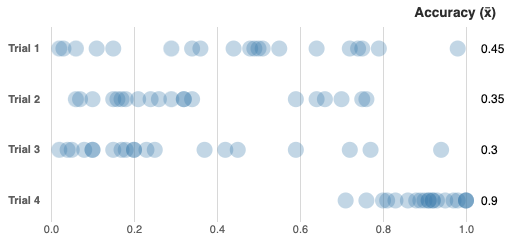
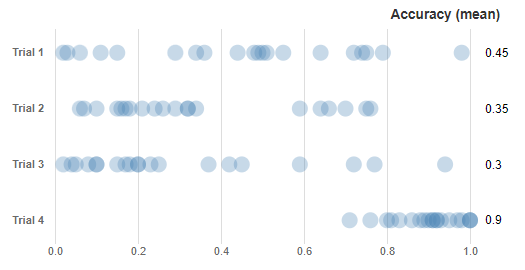
updating rubric

diff --git a/p0/assignment.md b/p0/assignment.md
@@ -2,7 +2,7 @@
 
 *Due on Jan 27, 11:59pm.*
 
-*Remember to submit your README.md file to Canvas before the due date*
+*Remember to submit a zip file of your repo to Gradescope before the due date*
 
 This programming assignment assumes that you have fulfilled all course prerequisites and followed along with the D3 tutorials.
 
@@ -10,13 +10,9 @@ This programming assignment assumes that you have fulfilled all course prerequis
 
 We will use **git** repositories for all programming assignments and project milestones. You should already be well acquainted with the process and all necessary git commands from previous courses (see [Reid Holmes' CPSC 310 git tutorial](https://github.com/ubccpsc/310/blob/2019jan/resources/git.md) as a refresher).
 
-We created a git repository in your github student account ([https://github.students.cs.ubc.ca/](https://github.students.cs.ubc.ca/)) that contains a basic template that should help you get started. The dataset is included in the /data folder. You will need to modify the .html, .js, and .css files as described below. Don't add new files.
+We created a git repository in your github student account ([https://github.students.cs.ubc.ca/](https://github.students.cs.ubc.ca/)) that contains a basic template that should help you get started. A dataset is included in the /data folder. You will need to modify the .html, .js, and .css files as described below. Don't add new files.
 
-Submit the programming assignment by updating the given repository (`git push`) and by submitting your README file to Canvas before the deadline. You can commit/push changes as often as you want before the deadline. Work alone.
-
-We will also evaluate code readability and structure (add comments, indent code, use functions, ...).
-
-Cite any external resources and explain exactly what modifications you have made in your README documentation. We created an empty `README.md` file in the root directory of the repo.
+Submit the programming assignment by zipping the final version of your code and submitting it to Gradescope before the deadline. Work alone.
 
 ---
 
@@ -51,5 +47,32 @@ The final result of the *P0* assignment should look similar to the image below:
 	* *Hint:* You can use [d3.rollups](https://observablehq.com/@d3/d3-group#rollups) to group data points and compute summary statistics (Example: `d3.rollups(athletes, v => d3.sum(v, d => d.earnings), d => d.sport)` computes the total earnings in each sports discipline based on a given athletes dataset)
 	* The labels should be automatically updated when we load different data
 
+* SVG details
+    * The SVG chart must have a width of 500px and a height of 250px. 
+    * The SVG chart must have reasonable margins and general spacing so as to be easily legible, not too cluttered, and not too spread out.
+* Scales
+    * Use one categorical scale and one linear scale. 
+    * The y-axis must denote the trial number and the x-axis must denote accuracy. 
+    * Show grid lines for the x-axis but do not include any other tick marks or grid lines. 
+    * The y-axis labels must include “Trial” before the numbers, i.e. “Trial 1”, “Trial 2”, etc.
+    * The y-axis must be shown in ascending order.
+* Point marks
+    * The point marks must be circles of radius 8px and they must use fill opacity to indicate overlapping marks. 
+    * You may choose the fill colour.
+* Summary statistics
+    * To the right of each trial there should be a text label with the average accuracy of that trial, rounded to two decimal places. 
+    * Include an axis title that says “Accuracy (mean)” above these averages. 
+    * Hint: You can use d3.rollups to group data points and compute summary statistics (Example: d3.rollups(athletes, v => d3.sum(v, d => d.earnings), d => d.sport) computes the total earnings in each sports discipline based on a given athletes dataset).
+* Robustness
+    * The visualization should work for different datasets in addition to the single test dataset that we provide, including but not limited to varying numbers of trials and varying trial average accuracies. 
+    * You should not assume that accuracies will be within the range [0, 1].
+* Code structure and format
+    * The scatterplot class provided in the template must not be removed.
+    * Your code must follow reasonable style standards. 
+    * Don’t leave any old, unused code snippets.
+    * Code must be well structured rather than copy/paste duplication or massive functions.
+    * Code must be well commented (but not over commented).
+    * Code must be consistently indented.
+* Citations and explanations
+    * Cite any external resources and explain exactly what modifications you have made in your README documentation. We created an empty `README.md` file in the root directory of the repo.
 
-*Make sure to remove old code snippets that are not needed anymore. Add code comments and indent code consistently.*
